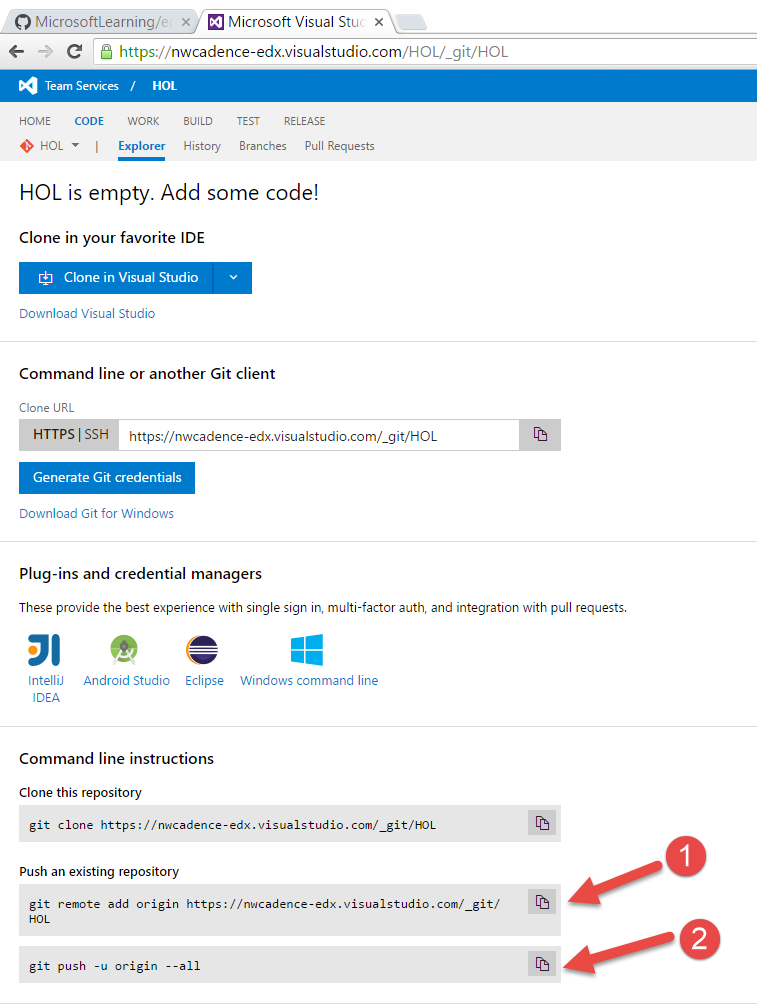
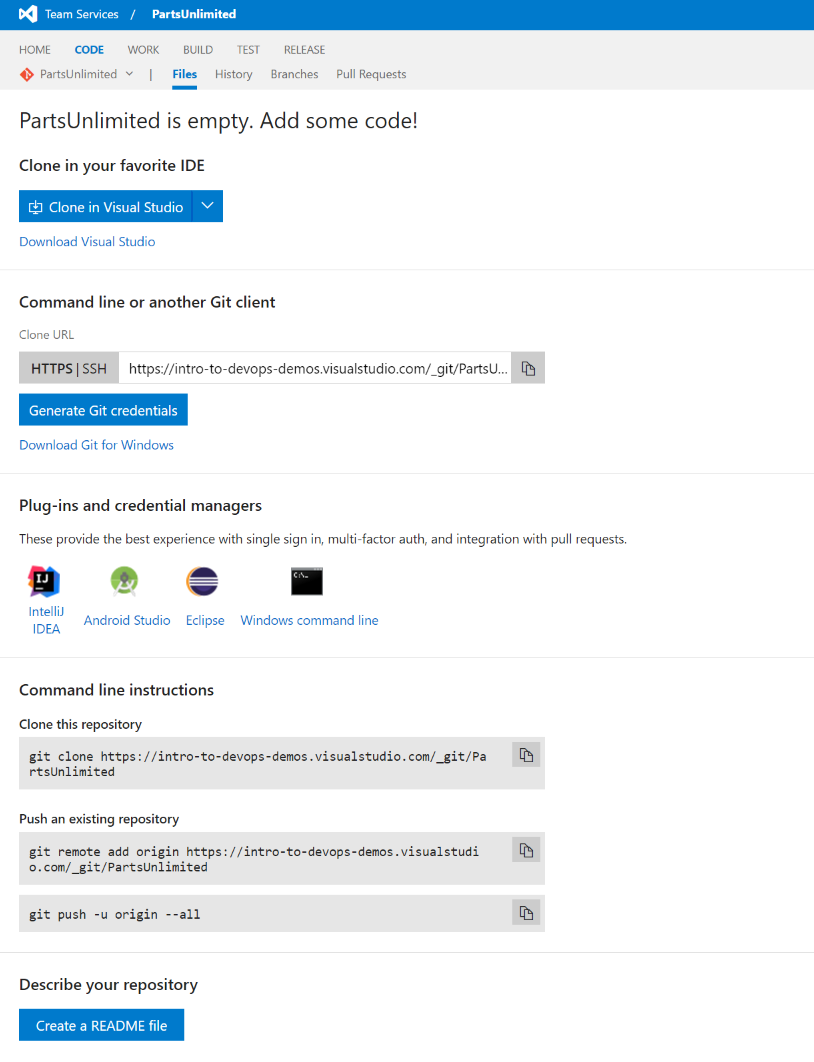
Update Lab3 with new images up to task 1b step 5

diff --git a/docs/Lab3/edX-DEV212x-Lab3.md b/docs/Lab3/edX-DEV212x-Lab3.md
@@ -1,7 +1,6 @@
-# EdX DEV212x Intro to DevOps - LAB 3 #
+# edX DEV212x Intro to DevOps - LAB 3, Continuous Integration with Visual Studio Team Services #
 This is the Hands on Lab for module 3 of the Intro to DevOps course.
 
-## LAB 3 - Continuous Integration with Visual Studio Team Services ##
 Once you have completed the videos and other course material for Module 3, you can continue with this lab.
 
 In this lab we have an application called PartsUnlimited. We want to set up
@@ -14,7 +13,7 @@ pushed to Visual Studio Team Services.
 
 ###Pre-requisites:###
 
--   Make sure you have completed [LAB 1](../Lab1/EdX212x-Lab1.md) to set up your VSTS account.
+-   Make sure you have completed [LAB 1](../Lab1/EdX212x-Lab1.md) to set up your VSTS account and install Git. 
 
 ### Tasks Overview: ###
 
@@ -24,36 +23,32 @@ pushed to Visual Studio Team Services.
 
 **3. Test the CI Trigger in Visual Studio Team Services:** In this step, test the Continuous Integration build (CI) build we created by changing code in the Parts Unlimited project with Visual Studio Team Services. 
 
-### 1a: Import Source Code into your VSTS Account with Git
+## 1a: Import Source Code into your VSTS Account with Git Command Line
 
-> Note: Use this to approach to use the Git command line to migrate code from GitHub to VSTS. If you use this approach, skip section 1b.
+> Note: Use this to approach to use the Git command line to migrate code from GitHub to VSTS. Make sure that you have installed Git and added it to the path from the [task in Lab 1](https://github.com/MicrosoftLearning/edX-DEV212x-Intro-to-DevOps/blob/master/docs/Lab1/edX-DEV212x-Lab1.md#task-3---download-and-install-git). If you use this approach, skip section 1b. 
 
 We want to push the application code to your Visual Studio Team Services account in
 order to use Build.
 
-> **Talking Point:** For this lab we are using the VSTS Git project. The next couple of steps will allow you to add the PartUnlimited source to the Git master repository.
-
-**1.** (Optional) Navigate to [https://github.com/MicrosoftLearning/edX-DEV212x-Intro-to-DevOps](https://github.com/MicrosoftLearning/edX-DEV212x-Intro-to-DevOps) and copy the URL to the repo. (These steps all use the HTTPS protocol.)  This step will save you from having to type the full URL later.
+**1.** Navigate to [https://github.com/MicrosoftLearning/edX-DEV212x-Intro-to-DevOps](https://github.com/MicrosoftLearning/edX-DEV212x-Intro-to-DevOps) and copy the URL to the repo. (These steps all use the HTTPS protocol.)  This step will save you from having to type the full URL later.
 
 ![](<media/clone.png>)
 
-**2.** Clone the repository to a local directory.
-
-Create a parent **Working Directory** on your local file system. For instance, on a Windows OS you can create the following directory:
+**2.** Create a parent **Working Directory** on your local file system. For instance, on Windows OS you can create the following directory:
 
 `C:\Source\Repos`
 
-Open a command line (one that supports Git) and change to the directory you created above.
+Open a command line window (one that supports Git such as Git Bash) and change to the directory you created above. If not using Git Bash, ensure that Git is in the path for a command line window by typing in `git`. If it isn't, either use Git Bash (installed by default) instead or follow the last steps from the [task in Lab 1](https://github.com/MicrosoftLearning/edX-DEV212x-Intro-to-DevOps/blob/master/docs/Lab1/edX-DEV212x-Lab1.md#task-3---download-and-install-git) to add it to the path again with the installation bits. 
 
-Clone the repository with the following command. You can paste in the URL if you copied it in Step 1.  In the example below, the clone will be copied into a directory named HOL. Feel free to use whatever directory name you like, or leave it blank to use the default directory name:
+Clone the repository with the following command. You can paste in the URL if you copied it in Step 1.  In the example below, the clone will be copied into a directory named `PartsUnlimited`. Feel free to use whatever directory name you like, or leave it blank to use the default directory name:
 
-	git clone https://github.com/MicrosoftLearning/edX-DEV212x-Intro-to-DevOps.git HOL
+	git clone https://github.com/MicrosoftLearning/edX-DEV212x-Intro-to-DevOps.git PartsUnlimited
 
 After a few seconds of downloading, all of the code should now be on your local machine.
 
-Move into the directory that was just created.  In a Windows OS (and assuming you used HOL as the directory name), you can use this command:
+Move into the directory that was just created.  In a Windows OS (and assuming you used PartsUnlimited as the directory name), you can use this command:
 
-	cd HOL
+	cd PartsUnlimited
 
 **3.** Remove the link to GitHub. 
 
@@ -63,7 +58,7 @@ To delete the GitHub remote, use:
 
 	git remote remove origin
 
-To rename the GitHub remote, use:
+Otherwise, to rename the GitHub remote, use:
 
 	git remote rename origin github
 
@@ -89,13 +84,12 @@ In the local directory from Step 3, use the following command to add VSTS as the
 Now you can push the code, including history, to VSTS:
 
 	git push -u origin --all	
+
 Congratulations, your code should now be in VSTS!
 
 ### 1b: Import Source Code into your VSTS Account with Visual Studio
 
 > Note: Use this to approach to use the Visual Studio to migrate code from GitHub to VSTS. If you use this approach, skip section 1a.  ** *If you have any difficulties with this approach, please use the Git command line approach above. It is much simpler, and far less prone to error.* **
-
-
 
 We want to push the application code to your Visual Studio Team Services account in
 order to use Build.
@@ -107,21 +101,20 @@ page**:
 
 **2.** Connect to the VSTS account project (you may have called it EdX in Module 1) using Visual Studio (Note: in this image the Project is called HOL).
 
-![](<media/25.jpg>)
+![](<media/manage_connections.png>)
 
-> **Talking Point:** For this lab we are using the VSTS Git project. The next couple of steps will allow you to add the PartUnlimited source to the Git master repository.
+
+![](<media/connect_to_vsts.png>)
 
 **3.** Navigate to [https://github.com/MicrosoftLearning/edX-DEV212x-Intro-to-DevOps](https://github.com/MicrosoftLearning/edX-DEV212x-Intro-to-DevOps) and download the repository as a zip.
 
 ![](<media/download.png>)
 
-**4.** Create folder and save the download to this folder.
+**4.** Create a **Working Directory** to the following location:
 
-Create **Working Directory** to the following location:
+`C:\Source\Repos\PartsUnlimited`
 
-`C:\Source\Repos\HOL`
-
-**5.** Unzip the zip file. Note: when unzipping be sure and “Unblock” the content or the deployment scripts won’t run
+**5.** Extract the zip file to the working directory that you just created. Note: when extracting be sure and “Unblock” the content or the deployment scripts won’t run
 
 ![](<media/21.jpg>)
 
@@ -150,27 +143,11 @@ the page. Verify the source is in the repo.
 
 ![](<media/31.jpg>)
 
-**10.** Now it is time to create a local repo to work from, in the Team Explorer, click **Branches** -> Right click on **Master** -> **New Local Branch from**... 
-
-![](<media/32.jpg>)
-
-**11.** Add in the repo name (i.e. *HOLRepo*) and click **Create Branch**
-
-![](<media/33.jpg>)
-
-> **Note:** Publishing back to VSO when cloning a repo allow the build definition to see the new repo for building out the projects.
-
-**12.** Now we need to make sure the branch is discoverable from build, click on **Publish Branch**.
-
-![](<media/34.jpg>)
-
 ### 2. Create Continuous Integration Build
 
 A continuous integration build will give us the ability check whether the code
 we checked in can compile and will successfully pass any automated tests that we
 have created against it.
-
-> **NOTE:** If you migrated your code using the Git command line (1a above), you did not create an "HOLRepo" branch in your Git repo. For the purposes of the remainder of the lab, either use "master" in place of "HOLRepo", or create and push an "HOLRepo" branch based off of master.
 
 **1.** Go to your **account’s homepage**: 
 
